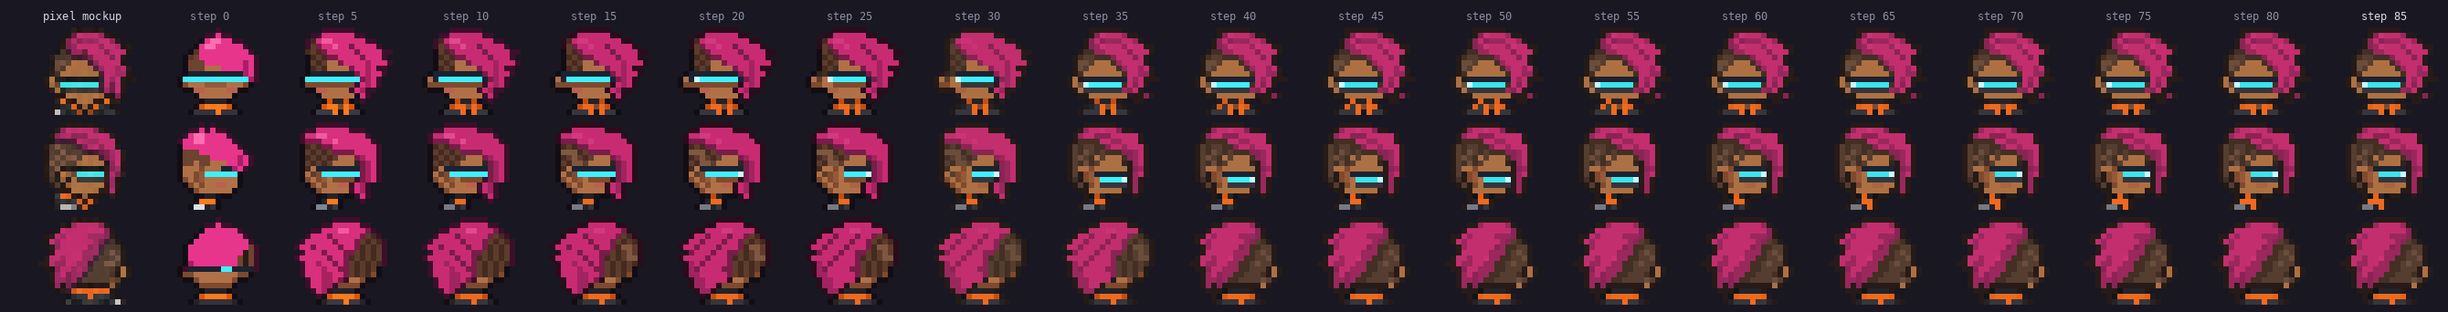
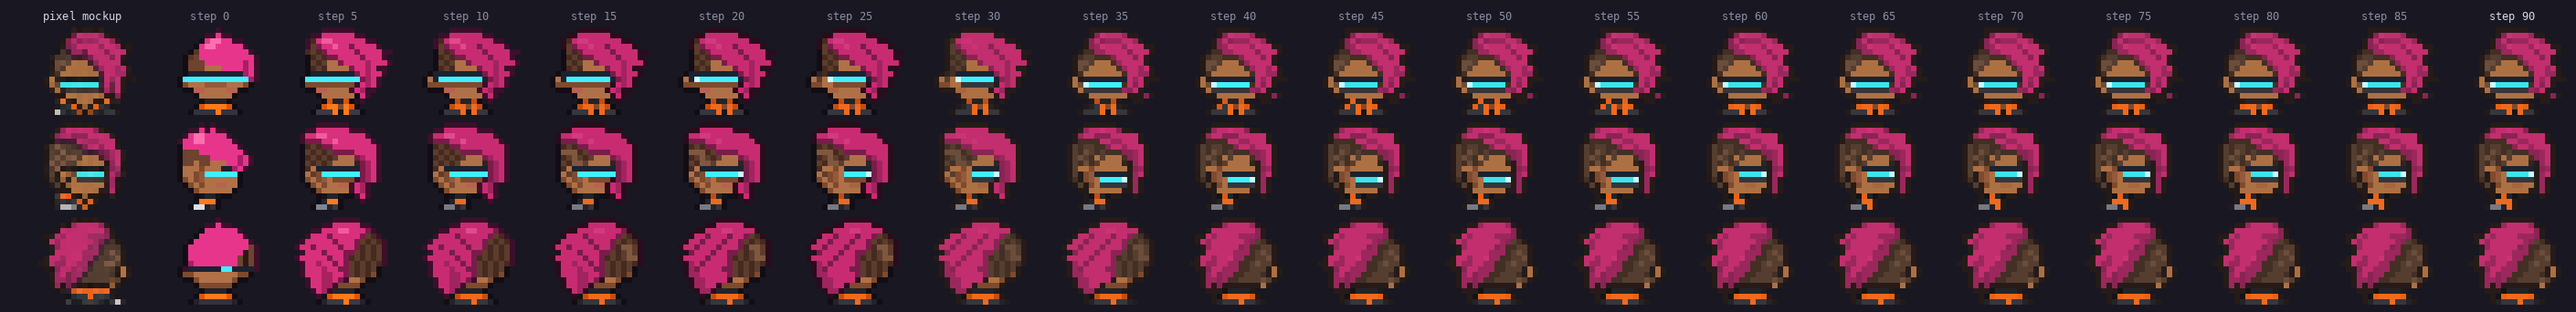
feat(juno): iteration steps 86-90, a dark jacket only
The chest patch, the back chevron and its 3/4 half go, and the logo ramp
with them: the mockup's jacket carries no light marks from any angle.
Similarity 0.874. Snapshot in history/step-90.toml; README media
regenerated.

Claude-Session: https://claude.ai/code/session_01Fv8yoVpx8AM9QtDidGMBtM

diff --git a/README.md b/README.md
@@ -69,7 +69,7 @@ flowchart LR
 | 2 | [Teaching the AI anatomy](#2--teaching-the-ai-anatomy) | Labeling every pixel of every frame with the body part it belongs to |
 | 3 | [Pixels as text](#3--pixels-as-text) | Why every image here is also a text file |
 | 4 | [Dressing the mannequin](#4--dressing-the-mannequin) | A character is a recipe that renders onto all frames at once |
-| 5 | [Closing the gap](#5--closing-the-gap) | 85 rounds against the mockup: where it stopped paying off, what got it moving again, where it converged, and what the score never saw |
+| 5 | [Closing the gap](#5--closing-the-gap) | 90 rounds against the mockup: where it stopped paying off, what got it moving again, where it converged, and what the score never saw |
 | 6 | [Debugging in plain text](#6--debugging-in-plain-text) | Bugs tracked down with a query and fixed with a few characters |
 | 7 | [Variations for free](#7--variations-for-free) | A new colorway is a ten-line file |
 | 8 | [The AI picks up the pencil](#8--the-ai-picks-up-the-pencil) | Why concept art can't just be shrunk into pixel art |
@@ -239,7 +239,7 @@ flowchart LR
 Every five steps the recipe was saved to `characters/juno/history/step-NN.toml`, so each stage of the progression is
 rebuilt from source like every other image here:
 
-<p align="center"><img src="docs/images/juno-iteration.png" alt="Pixel mockup, then Juno after every fifth iteration step from 0 to 85, in five views" width="920"></p>
+<p align="center"><img src="docs/images/juno-iteration.png" alt="Pixel mockup, then Juno after every fifth iteration step from 0 to 90, in five views" width="920"></p>
 
 <p align="center"><img src="docs/images/juno-iteration-heads.png" alt="Head close-ups (front, profile, back) across the same steps" width="920"></p>
 
@@ -259,7 +259,7 @@ The similarity score is deliberately coarse. It lets every opaque pixel look for
 in the other image, so it forgives one-pixel drift but not a wrong shape or color. A perfect 1.0 is out of reach for
 reasons explained below.
 
-<p align="center"><img src="docs/images/juno-similarity.png" alt="Similarity to the mockup per saved step: 0.614, 0.706, 0.752, 0.768, 0.766, 0.767, then 0.836, 0.848, 0.867, then flat around 0.872 from step 45 to 85" width="720"></p>
+<p align="center"><img src="docs/images/juno-similarity.png" alt="Similarity to the mockup per saved step: 0.614, 0.706, 0.752, 0.768, 0.766, 0.767, then 0.836, 0.848, 0.867, then flat around 0.872 from step 45 to 90" width="720"></p>
 
 The first 25 steps show the returns diminishing. Shape (steps 1–5) and color (6–10) were the big wins. After step 15
 the score was flat, and it's worth looking at why, because most of the remaining gap can't be closed by iterating the
@@ -380,7 +380,9 @@ a side-shading rule added dark columns beside every sleeve. The fix was mostly g
 toward the facing side, so the open edge moved there; the hem is painted after the zipper so it runs under the
 opening; the cuff is a darker orange; the shading rule went. A `region` rule (the first n columns of a part from
 its front or back) shades the far flank in the 3/4 views, and the back chevron shows its near half from 3/4 behind.
-The turn-around now reads as one jacket seen from eight sides.
+The turn-around now reads as one jacket seen from eight sides. Five more steps (86–90) removed the light
+marks the concept had put on the jacket, the chest patch and the back chevron: the mockup's jacket is dark from
+every angle, and the human watching preferred it that way.
 
 ## 6 · Debugging in plain text
 

diff --git a/characters/juno/history/NOTES.md b/characters/juno/history/NOTES.md
@@ -121,3 +121,16 @@ handled, and most diagonal and side angles look broken."
 | 82 | all README media regenerated | 0.873 |
 | 83–85 | final pass; snapshot | 0.873 |
 
+## Sixth run (steps 86–90): a dark jacket only
+
+"There are light elements coming through on the coat in angled and back views that are not in the
+mockups. The mockups have a dark jacket only."
+
+| step | change | similarity |
+|---|---|---|
+| 86 | the back chevron and its 3/4 half removed (grey `logo` bands) | 0.874 |
+| 87 | the chest mark removed too: the mockup's jacket has no print from any angle | 0.874 |
+| 88 | the `logo` ramp goes with them | 0.874 |
+| 89 | torsos of all eight facings checked: jacket, orange trim and the cyber-arm only | 0.874 |
+| 90 | snapshot, README media regenerated | 0.874 |
+
